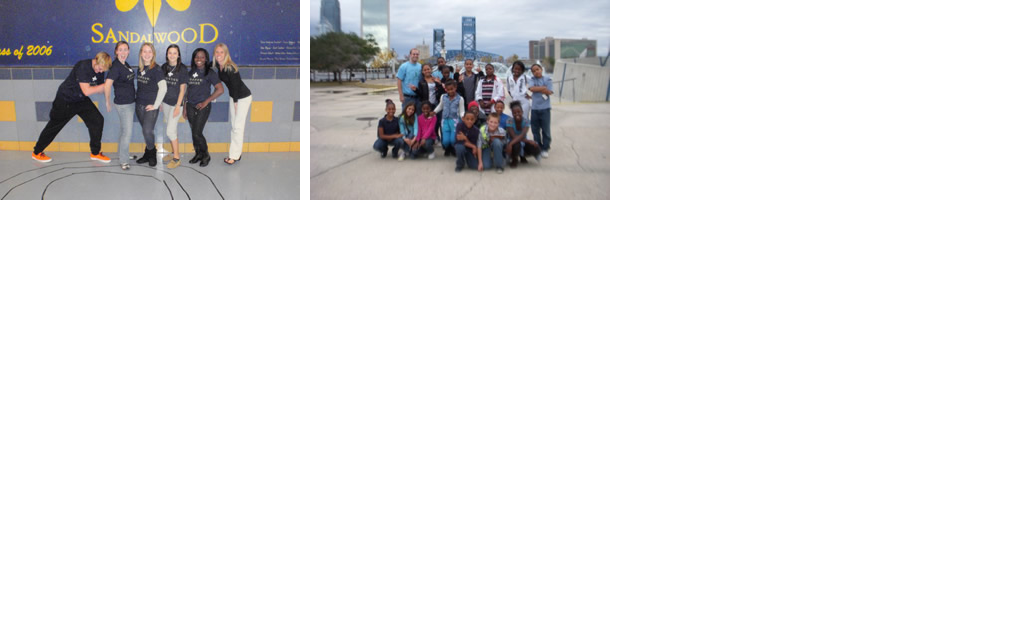
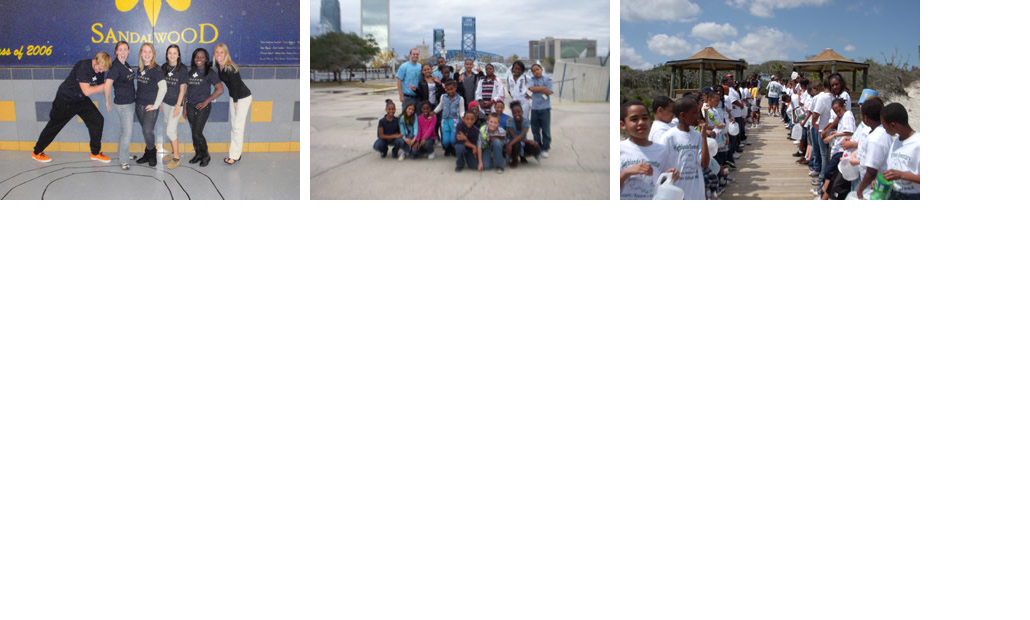
Joshua Hogan 2

Changed region(s): [[0.5903, 0.0, 0.901, 0.3371]]

diff --git a/public/stylesheets/all.css b/public/stylesheets/all.css
@@ -1081,6 +1081,16 @@ dd {
       background: url("../images/boxes/box_ads.png") -310px 0 no-repeat;
       height: 200px;
       width: 300px; }
+    #pixelwrapper #grid #joshua_hogan_2 {
+      background-position: -30px 0;
+      height: 20px;
+      left: 30px;
+      top: 0;
+      width: 20px; }
+    #pixelwrapper #grid #joshua_hogan_2_img {
+      background: url("../images/boxes/box_ads.png") -620px 0 no-repeat;
+      height: 200px;
+      width: 300px; }
     #pixelwrapper #grid .tooltip {
       background: url("../images/white_large.png") no-repeat;
       color: black;

diff --git a/public/stylesheets/application.css b/public/stylesheets/application.css
@@ -1081,6 +1081,16 @@ dd {
       background: url("../images/boxes/box_ads.png") -310px 0 no-repeat;
       height: 200px;
       width: 300px; }
+    #pixelwrapper #grid #joshua_hogan_2 {
+      background-position: -30px 0;
+      height: 20px;
+      left: 30px;
+      top: 0;
+      width: 20px; }
+    #pixelwrapper #grid #joshua_hogan_2_img {
+      background: url("../images/boxes/box_ads.png") -620px 0 no-repeat;
+      height: 200px;
+      width: 300px; }
     #pixelwrapper #grid .tooltip {
       background: url("../images/white_large.png") no-repeat;
       color: black;

diff --git a/public/stylesheets/sass/application.sass b/public/stylesheets/sass/application.sass
@@ -270,6 +270,16 @@ dd
       :background url('../images/boxes/box_ads.png') -310px 0 no-repeat
       :height 200px
       :width 300px
+    #joshua_hogan_2
+      :background-position -30px 0
+      :height 20px
+      :left 30px
+      :top 0
+      :width 20px
+    #joshua_hogan_2_img
+      :background url('../images/boxes/box_ads.png') -620px 0 no-repeat
+      :height 200px
+      :width 300px
     .tooltip
       :background url('../images/white_large.png') no-repeat
       :color #000
